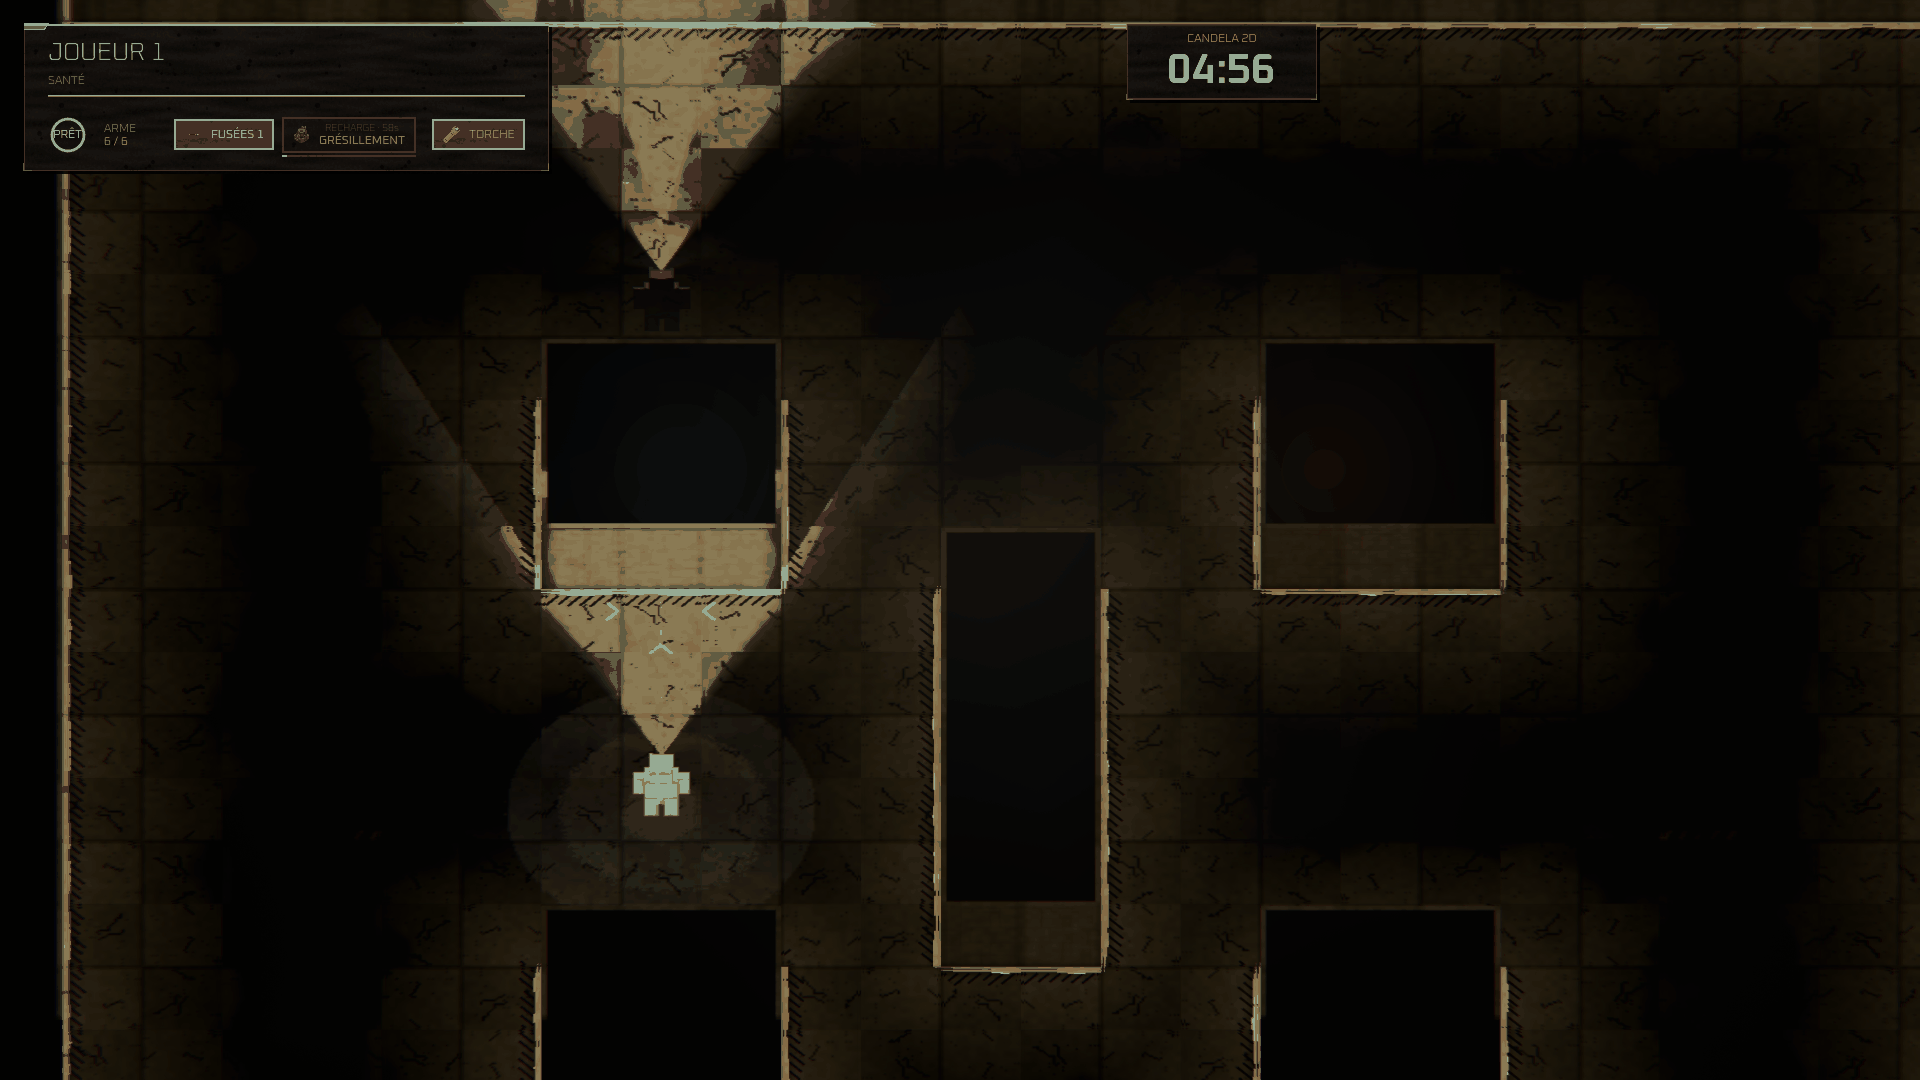
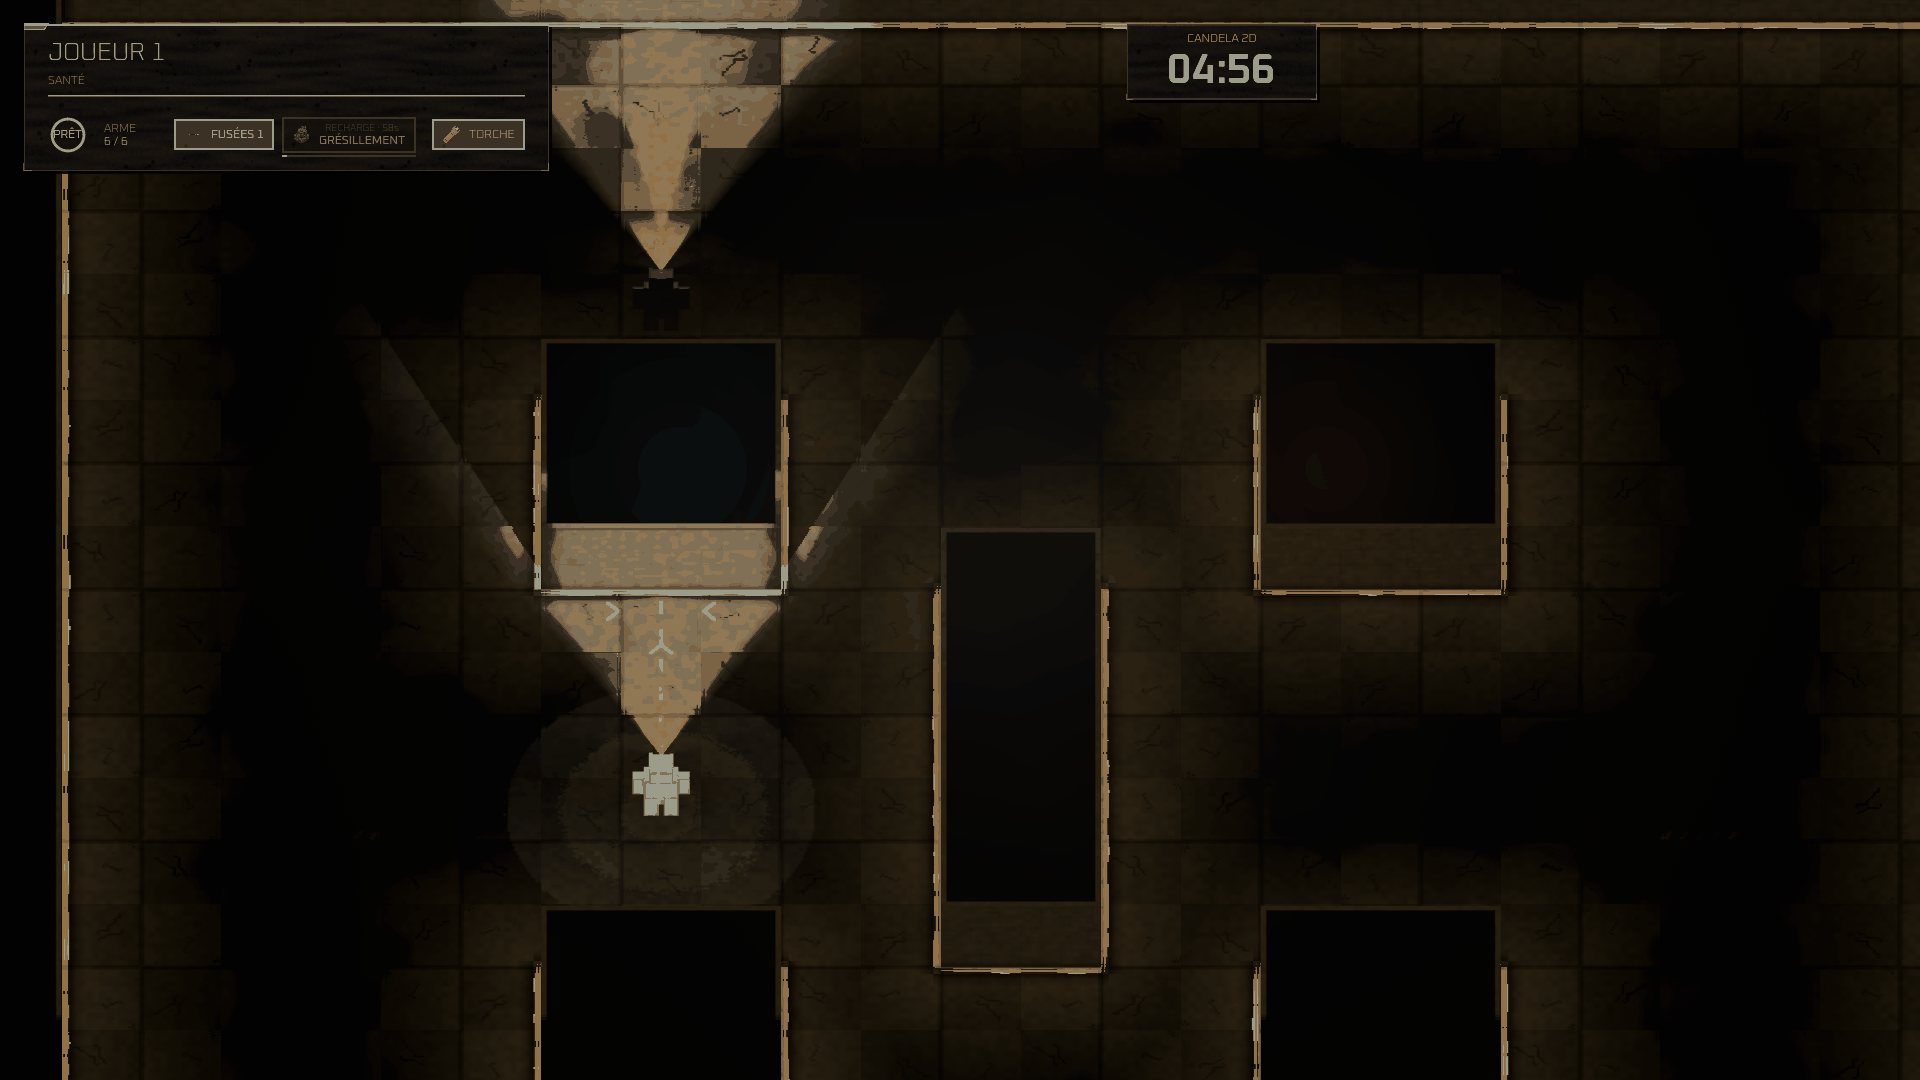
ISO10 fusionnée dans iso2-vues — la planche finale refaite sur la tête fusionnée, avec le Cloître, les cases d'ISO10 et la rampe du voile
Séquence de fin de la session cloud. iso10-finition avance iso2-vues en avance
rapide (64d9da4..3414df1, aucun conflit) ; ancrages relus après la fusion, tous
présents (peinture_iso.gd, les deux voiles, les deux halos et leurs .uid,
contact_des_corps, ANTICRENELAGE_3D, COUCHE_PEINTURE, aberration_debut /
aberration_pleine, le lavis).

La planche finale est reprise en une séance sur 3414df1 : le duel, l'écran
scindé, le Cloître, les gadgets, les fins, puis à la loupe 1:1 la face d'un
pilier, le sol et une tache, le corps de J1, la fusée posée et sa suie, une
face au-dessus du sang, et la bande de rampe du voile sur le corps éclairé
de J1. planche_finale.py prend --loupe et --tete.

Aucun code de jeu. Lot complet vert après la fusion : 111 suites, sans erreur
de script, 412 s. Rien n'est poussé.

diff --git a/docs/iso/planche_finale.py b/docs/iso/planche_finale.py
@@ -54,6 +54,36 @@ FINS = [
     ("fins/05-affiche.png", "L'affiche de fin", "le verdict dans la pâte"),
 ]
 REFERENCE = ("planche_corps_v5.png", "Les dix corps v5 (ISO Corps)", "référence : le gabarit du DA")
+## Séquence de fin d'ISO10 (session cloud, 19:53) : les cases d'ISO10, recadrages 800×450 à la fenêtre native au Cloître
+## (`--famille=loupe`, voir tools/loupe.gd), et la bande de rampe du voile, cinq niveaux au cadrage du corps de J1.
+LOUPES_ISO10 = [
+    ("loupe-pilier", "La face d'un pilier (ISO10, 1b)", "lavis au pied, matière de la face · loupe 1:1"),
+    ("loupe-sol", "Le sol et une tache (1b)", "fissures et pores en gris moyen, sang à paliers · loupe 1:1"),
+    ("loupe-corps-j1", "Le corps de J1 (1d)", "MSAA 3D ×4, ombre de contact · loupe 1:1"),
+    ("loupe-fusee-suie", "La fusée posée et la suie (1c)", "plus d'anneaux, lueur rouge en mélange, suie ambre · loupe 1:1"),
+    ("loupe-face-sang-peinture", "Une face au-dessus du sang (1f)", "la face lit la lumière, pas le sol peint · loupe 1:1"),
+]
+RAMPE = [("loupe-rampe-%s" % n, "Le voile à %s" % v, "rampe de l'aberration, corps de J1 éclairé · loupe 1:1")
+         for n, v in (("012", "0,12"), ("020", "0,2"), ("035", "0,35"), ("060", "0,6"), ("100", "1,0"))]
+
+
+def loupes(dossier, entrees):
+    """Les PNG de loupe d'une séance du photographe, par identifiant (manifeste), recopiés TELS QUELS."""
+    m = json.load(open(os.path.join(dossier, "manifeste.json"), encoding="utf-8"))
+    par_id = {f["id"]: f for f in m["photos"] if f.get("famille") == "loupe"}
+    dest = os.path.join(ICI, "captures_finale")
+    out = []
+    for ident, titre, detail in entrees:
+        fiche = par_id.get(ident)
+        if fiche is None:
+            out.append((None, titre, detail, 1))
+            continue
+        fichier = fiche["fichier"]
+        source = fichier if os.path.isabs(fichier) else os.path.join(dossier, fichier)
+        cible = os.path.join(dest, ident + ".png")
+        shutil.copyfile(source, cible)
+        out.append((cible, titre, detail, 1))
+    return out
 
 
 def copier(source, dest, max_ko):
@@ -68,6 +98,8 @@ def main():
     p.add_argument("--photos", required=True)
     p.add_argument("--gadgets", required=True)
     p.add_argument("--photos-cloitre", default="")
+    p.add_argument("--loupe", default="", help="séance --famille=loupe au Cloître : cases d'ISO10 et bande de rampe")
+    p.add_argument("--tete", default="", help="le commit de la tête fusionnée, pour le sous-titre")
     p.add_argument("--max-ko", type=int, default=450)
     p.add_argument("--max-planche-ko", type=int, default=1800)
     a = p.parse_args()
@@ -99,11 +131,14 @@ def main():
         cases.append((copier(source, dest, a.max_ko) if os.path.exists(source) else None, titre, detail, 1))
     for rel, titre, detail in FINS:
         cases.append((copier(os.path.join(a.photos, rel), dest, a.max_ko), titre, detail, 1))
+    if a.loupe:
+        cases.extend(loupes(a.loupe, LOUPES_ISO10))
+        cases.extend(loupes(a.loupe, RAMPE))
     ref, titre, detail = REFERENCE
     cases.append((os.path.join(ICI, ref), titre, detail, 1))
-    planche(cases, 3, "CANDELA — LE DUEL EN VUE ISOMÉTRIQUE, VAGUE « GRAND BUDGET »",
-            "iso2-vues @ %s · photographe sans drapeau (mode_rendu=iso), murs bas et Cloître · banc des gadgets après les fusions ISO7b et ISO8 · 2026-09-15"
-            % manifeste.get("commit", "?"),
+    planche(cases, 3, "CANDELA — LE DUEL EN VUE ISOMÉTRIQUE, VAGUE « GRAND BUDGET » ET FINITION ISO10",
+            "iso2-vues @ %s · photographe sans drapeau (mode_rendu=iso), murs bas et Cloître · banc des gadgets · cases d'ISO10 et rampe du voile, loupes 1:1 · 2026-09-15"
+            % (a.tete or manifeste.get("commit", "?")),
             os.path.join(ICI, "planche_finale.jpg"), a.max_planche_ko)
 
 

diff --git a/docs/ROADMAP.md b/docs/ROADMAP.md
@@ -25458,6 +25458,22 @@ des réglages à juger en jeu, des leviers non posés et des questions ouvertes.
   dans `voile_eblouissement.gdshaderinc` (le banc du voile les liste) ; et les curseurs de l'écran des réglages
   (éblouissement, aberration). Rien ne touche la simulation, le protocole, les hitbox ni le noir absolu.
 
+#### ISO10 — fusion dans `iso2-vues` et planche finale
+
+Séquence de fin de la session cloud (19:53). **La fusion** : `iso10-finition` avance `iso2-vues` en avance rapide
+(`64d9da4..3414df1`, 64 fichiers, aucun conflit), faite par la session qui tient les deux branches — aucun autre worktree
+n'occupait `iso2-vues`. Ancrages relus après la fusion : `peinture_iso.gd`, `voile_eblouissement.gdshaderinc` et
+`voile_eblouissement_calme.gdshader`, `halo_iso.gdshaderinc` et `halo_iso_melange.gdshader` (avec leurs `.uid`),
+`contact_des_corps` dans `sol_iso.gdshader`, `Presentation3D.ANTICRENELAGE_3D` et `COUCHE_PEINTURE`,
+`aberration_debut` / `aberration_pleine`, le lavis de `mur_encre.gd` — tous présents. Lot complet vert après la fusion, à 20:16 : 111 suites, sans erreur de script, 412 s.
+
+**La planche finale** (`docs/iso/planche_finale.jpg`, 1944×3766) est refaite sur la tête fusionnée, en une séance : le
+duel, l'écran scindé, le Cloître, le banc des gadgets, les fins, puis les cases d'ISO10 à la loupe 1:1 (la face d'un
+pilier, le sol et une tache, le corps de J1, la fusée posée et sa suie, une face au-dessus du sang) et la bande de rampe
+du voile sur le corps éclairé de J1 (0,12 / 0,2 / 0,35 / 0,6 / 1,0 ; relevés 0,094 / 0,172 / 0,323 / 0,574 / 0,973, le
+même écart d'une image de décroissance qu'au tour 2). `planche_finale.py` prend deux arguments de plus, `--loupe` (les
+PNG de la loupe copiés tels quels dans `captures_finale/`) et `--tete`. Les PNG de la rampe partent octet pour octet.
+
 ### Ce qui attend Adrien — jalon H15
 
 Go / no-go ; ou la voie « vitrines seulement » ; tangage (60-65°), lacet

diff --git a/docs/JOURNAL_SESSIONS.md b/docs/JOURNAL_SESSIONS.md
@@ -5694,3 +5694,8 @@ d'une prise à l'autre à rayon égal, cause non trouvée (ni suie, ni scintille
 anneaux ne sépare rien. Présenté tel quel à la session cloud, qui garde 0,18 et en fait un point ouvert du test final.
 Les chevrons de la balle en vol sont le viseur. La rampe est recadrée sur le corps de J1, prise avec la planche finale.
 Lot complet vert à 20:03 : 111 suites, sans erreur de script, 415 s.
+
+**ISO10, fusion et planche finale, 2026-09-15 à partir de 20:05.** Session « Iso 1 Opus ». Séquence de fin de la session
+cloud : `iso10-finition` fusionnée dans `iso2-vues` en avance rapide (`64d9da4..3414df1`), ancrages relus, tous présents.
+Planche finale refaite sur la tête fusionnée avec le Cloître, les cinq cases d'ISO10 et la bande de rampe du voile sur le
+corps de J1 ; banc des gadgets OK, `test_banc` vert. Lot complet vert après la fusion à 20:16 : 111 suites, sans erreur de script, 412 s. Rien n'est poussé.
